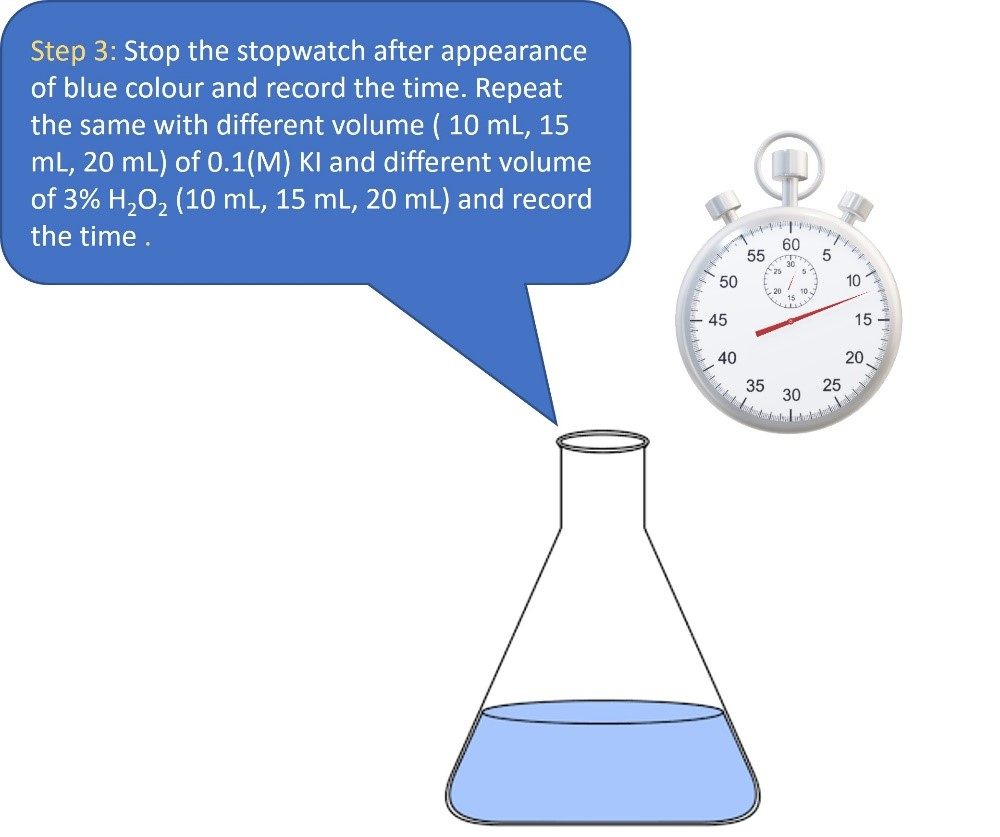
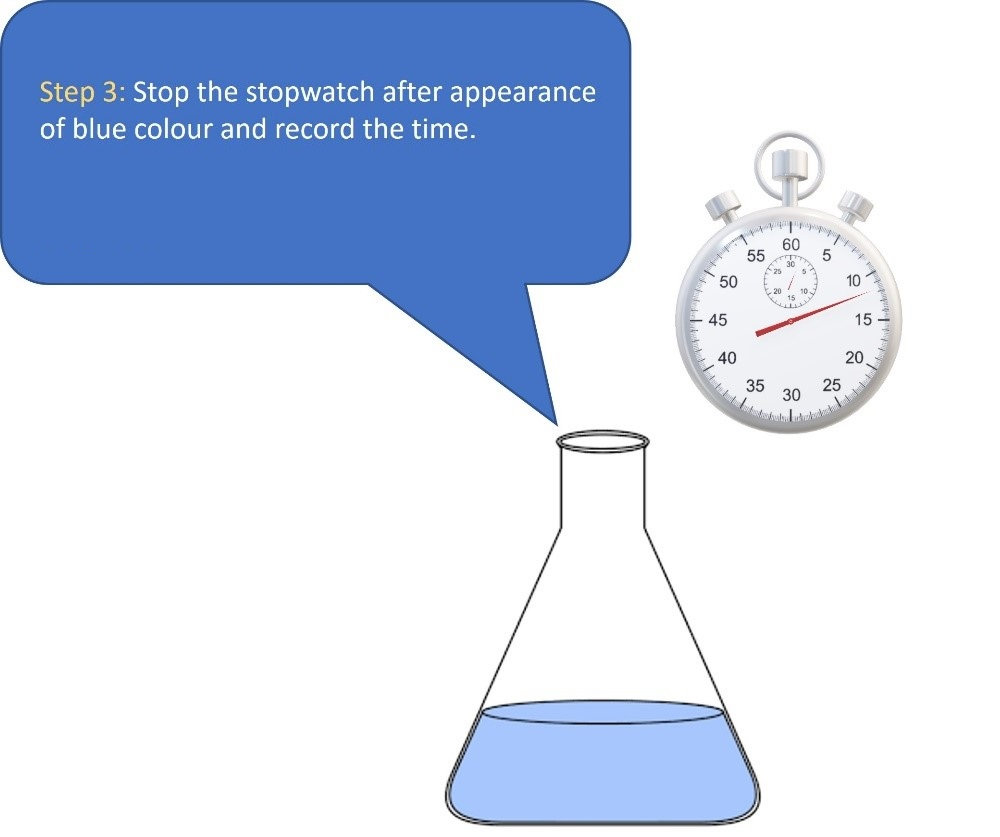
update experiment

Changed region(s): [[0.031, 0.0311, 0.62, 0.3106]]

diff --git a/experiment/theory.md b/experiment/theory.md
@@ -15,17 +15,17 @@ Rate = k' [I–]n [H2O2]m where k' = k[H+]p 			(2)<br>
 The rate law for the reaction between iodide and hydrogen peroxide can be determined by carrying out experiments in which the initial concentrations of iodide and peroxide are varied. In this way we can measure the value of m and n once the initial rate for each experiment is known.<br>
 
 
-The addition of thiosulfate ions (S2O32–) allows an accurate measurement of the rate at which the peroxide-iodide reaction is taking place. Suppose that a small and known amount of thiosulfate ion is added to the original mixture of peroxide and iodide. Iodine is produced slowly by the reaction between peroxide and iodide ions and the thiosulfate ions immediately consumes iodine as <br>
+The addition of thiosulfate ions (S2O32–) allows an accurate measurement of the rate at which the peroxide-iodide reaction is taking place. Suppose that a small and known amount of thiosulfate ion is added to the original mixture of peroxide and iodide. Iodine is produced slowly by the reaction between peroxide and iodide ions and the thiosulfate ions immediately consumes iodine via the reaction <br>
 I2 + 2S<sub>2</sub>O<sub>3</sub>->2I<sup>-</sup>
 
 
-As long as excess thiosulfate ions are present in the solution, no free iodine can accumulate because it is immediately turned into iodide ions which are colorless. The thiosulfate is the limiting reagent. So once all the thiosulfate ions are consumed, iodine starts to form in the solution. Iodine is a pale yellow. If starch is added to the solution then a more dramatic blue solution is formed by the complex of starch–iodine. The color change is sharp, and the time elapsed to this point is determined simply by use of a stopwatch. The time from the addition of the peroxide solution to the appearance of the blue color is ∆t for the reaction. Since the stoichiometry of the thiosulfate–iodine and the peroxide–iodide reactions is known, it is possible to calculate how many moles of peroxide were reduced in the known interval of time. Consequently, the average rate (moles of hydrogen peroxide consumed per liter per second) of the reaction during this period can be calculated as<br>
+As long as excess thiosulfate ions are present in the solution, no free iodine can accumulate because it is immediately turned into iodide ions which are colorless. On the other hand, if thiosulfate is the limiting reagent, iodine starts to form in the solution once all the thiosulphate ions are consumed. Iodine is  pale yellow. If starch is added to the solution then a more dramatic blue solution is formed by the complex of starch–iodine. The color change is sharp, and the time elapsed to this point is determined simply by use of a stopwatch. The time from the addition of the peroxide solution to the appearance of the blue color is ∆t for the reaction. Since the stoichiometry of the thiosulfate–iodine and the peroxide–iodide reactions is known, it is possible to calculate how many moles of peroxide were reduced in the interval of time. Consequently, the average rate (moles of hydrogen peroxide consumed per liter per second) of the reaction during this period can be calculated as<br>
 
-Rate=-∆[H<sub>2</sub>O<sub></sub>]/∆t				(3)<br>
+Rate=-∆[H<sub>2</sub>O<sub>2</sub>]/∆t				(3)<br>
 
-Using equation (3), the initial rate for different experiments is determined and consequently the rate equation can be obtaine. Now to determine the order of the reaction here we take “log” on both side of equation (2).<br>
+Using equation (3), the initial rate for different experiments is determined and consequently the rate equation can be written in terms of orders n and determine the order of the reaction, we take “log” on both side of equation (2).<br>
 
 log[rate] = logk + n log[I– ]+ m log[H2O2 ]                                    (4)<br>
  
-Here, by separately ploting log[rate] vs log[I– ] & log[rate] vs log[H2O2 ] we get straight lines. From the slope of this straight lines which is n & m respectively, we get order of the reaction with respect to KI and H2O2 respectively.<br>
+By separately ploting log[rate] vs log[I– ] & log[rate] vs log[H2O2 ] we get straight lines. From the slopes of these straight lines, we get n and m, the orders of the reaction with respect to KI and H2O2 respectively.<br>
 

diff --git a/experiment/procedure.md b/experiment/procedure.md
@@ -16,7 +16,8 @@
 <left><img src="images/fig44.png" width="80" height="120"></left><br>
 <br>
 <br>
-<center><img src="images/fig6.jpg" width="500" height="400"></center><br>
+<center><img src="images/fig6.jpg" width=
+"500" height="400"></center><br>
 <br>
 <center><img src="images/fig7.jpg" width="600" height="400"></center><br>
 <br>
@@ -33,9 +34,9 @@
 <b>Procedure in laboratory</b><br>
 <br>
 <img src="images/fig89.jpg" width="600" height="300"><br>
-<b>See video!</b><br>
+<!-- <b>See video!</b><br> -->
 <br>
-<b>Data and the analysis</b><br>
+<b>Sample Data and Analysis</b><br>
 <br>
 <b>Table – 1</b><br>
 <br>
